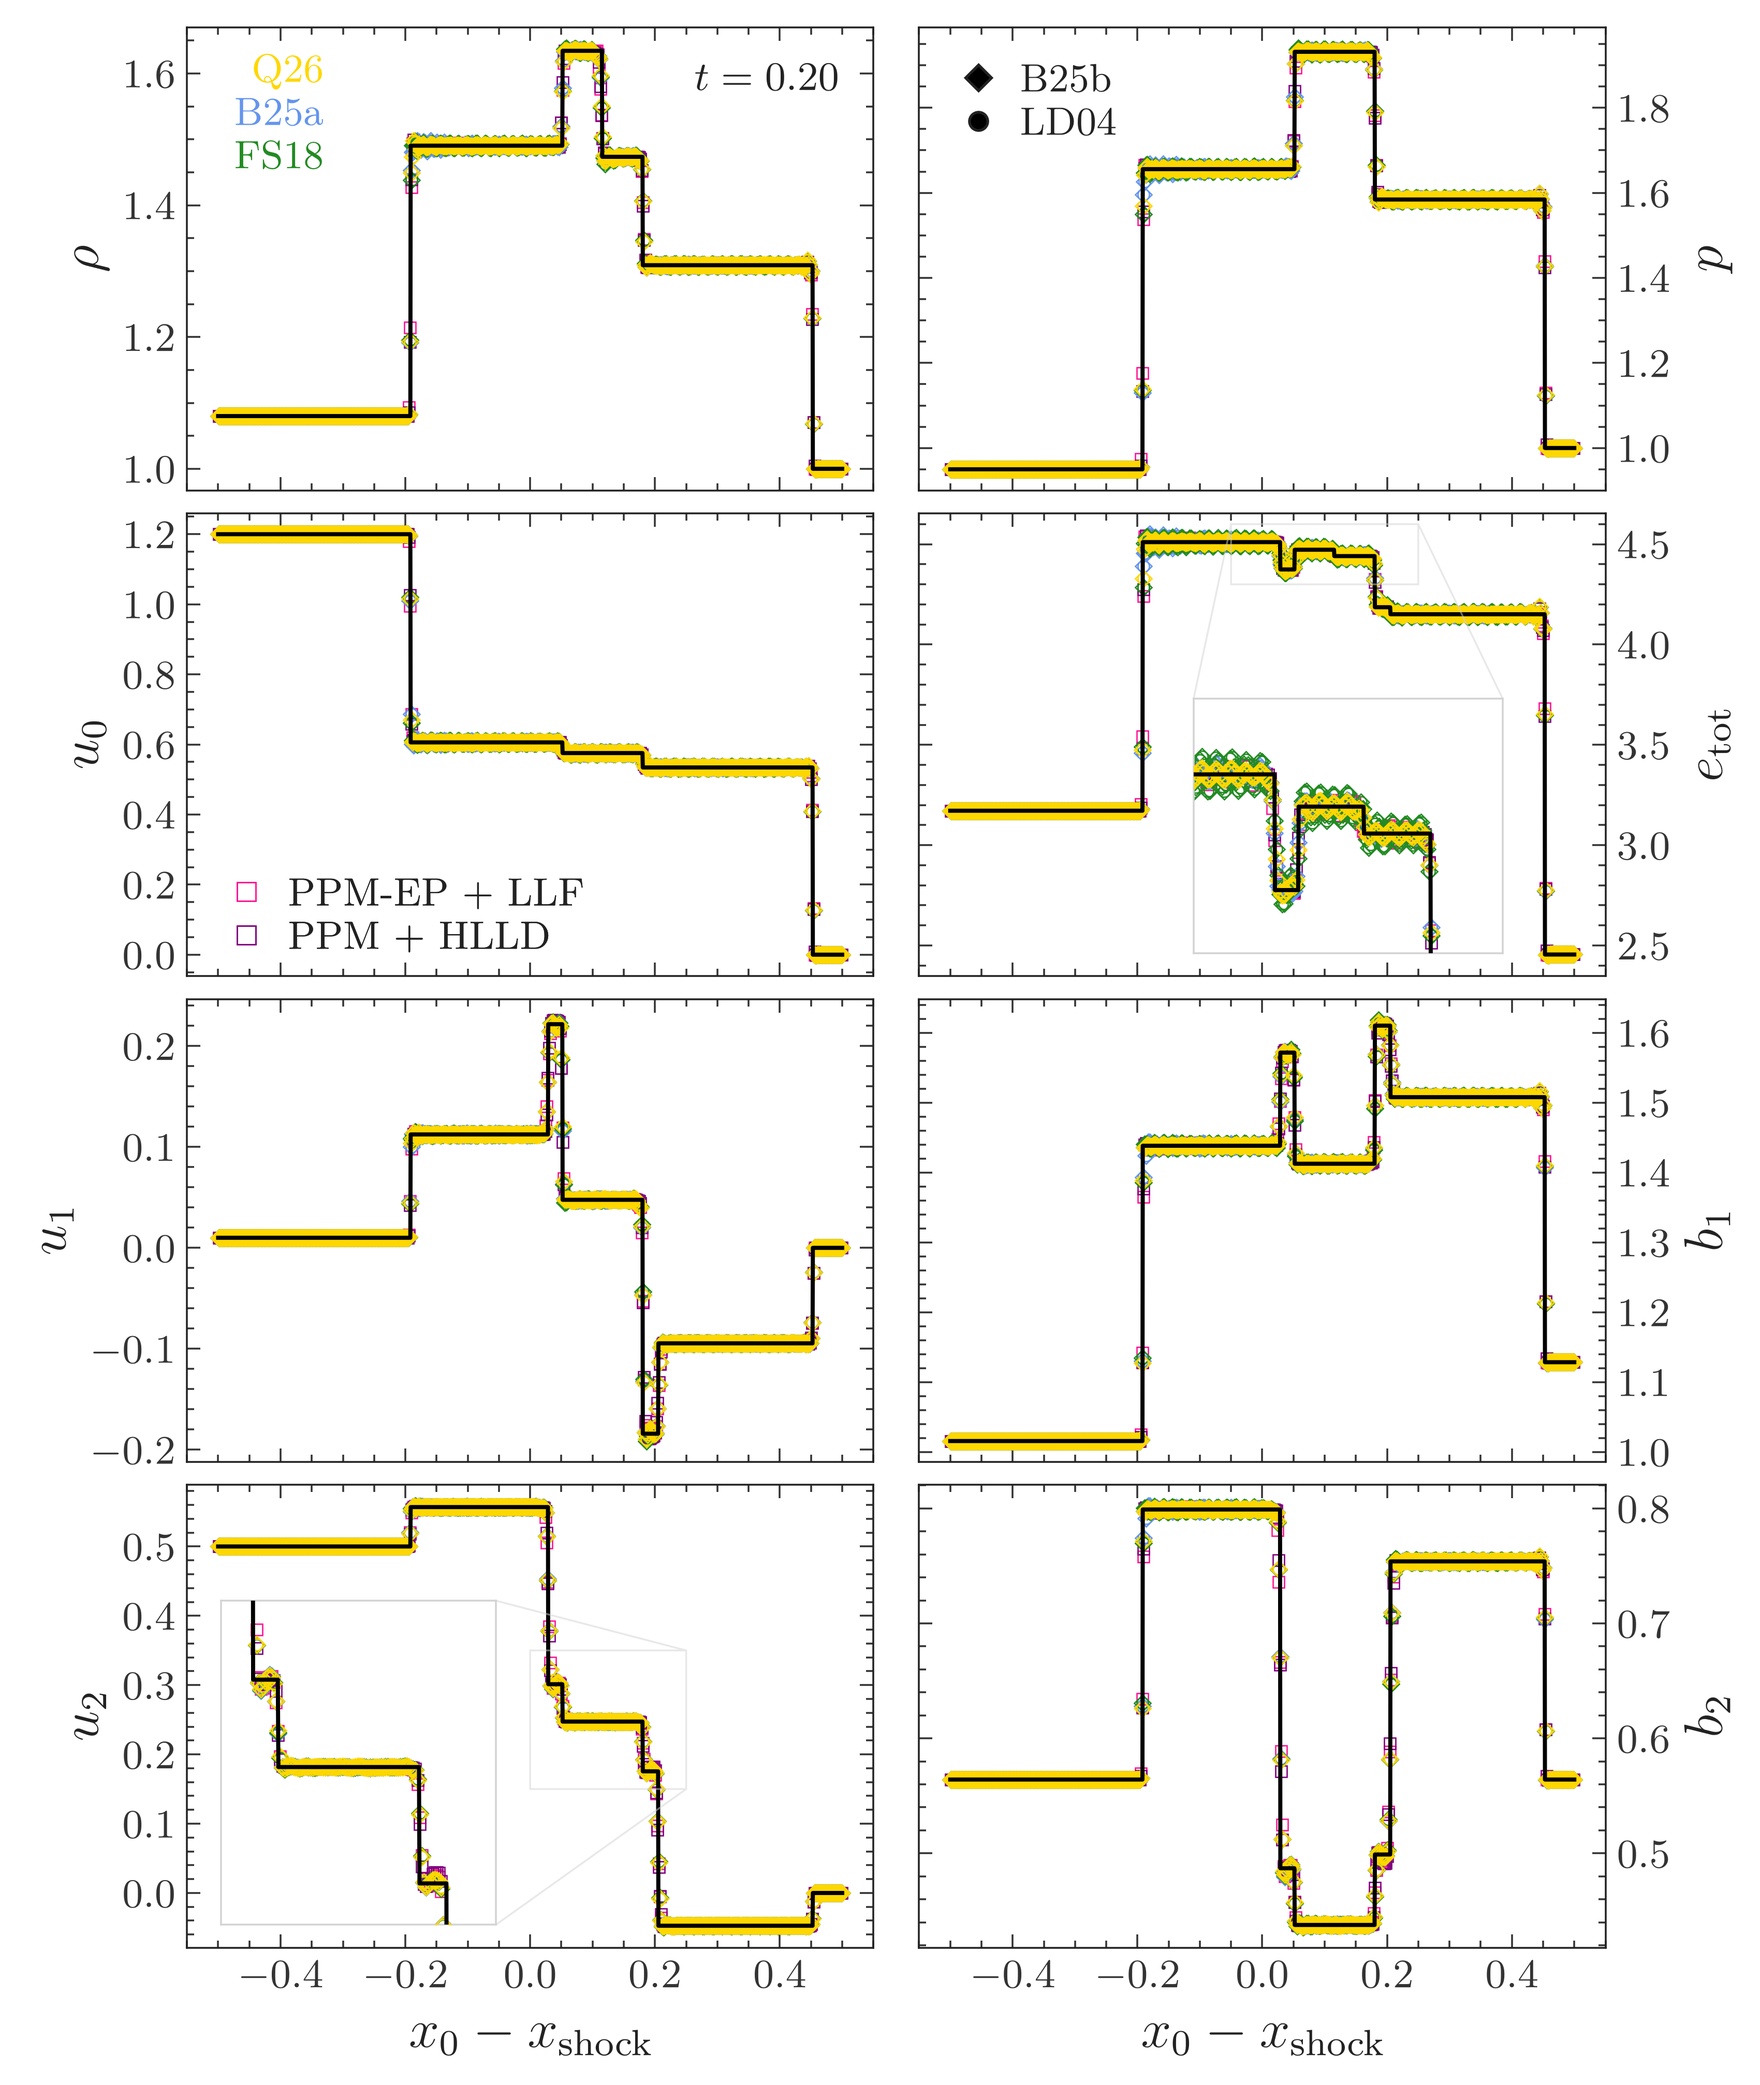
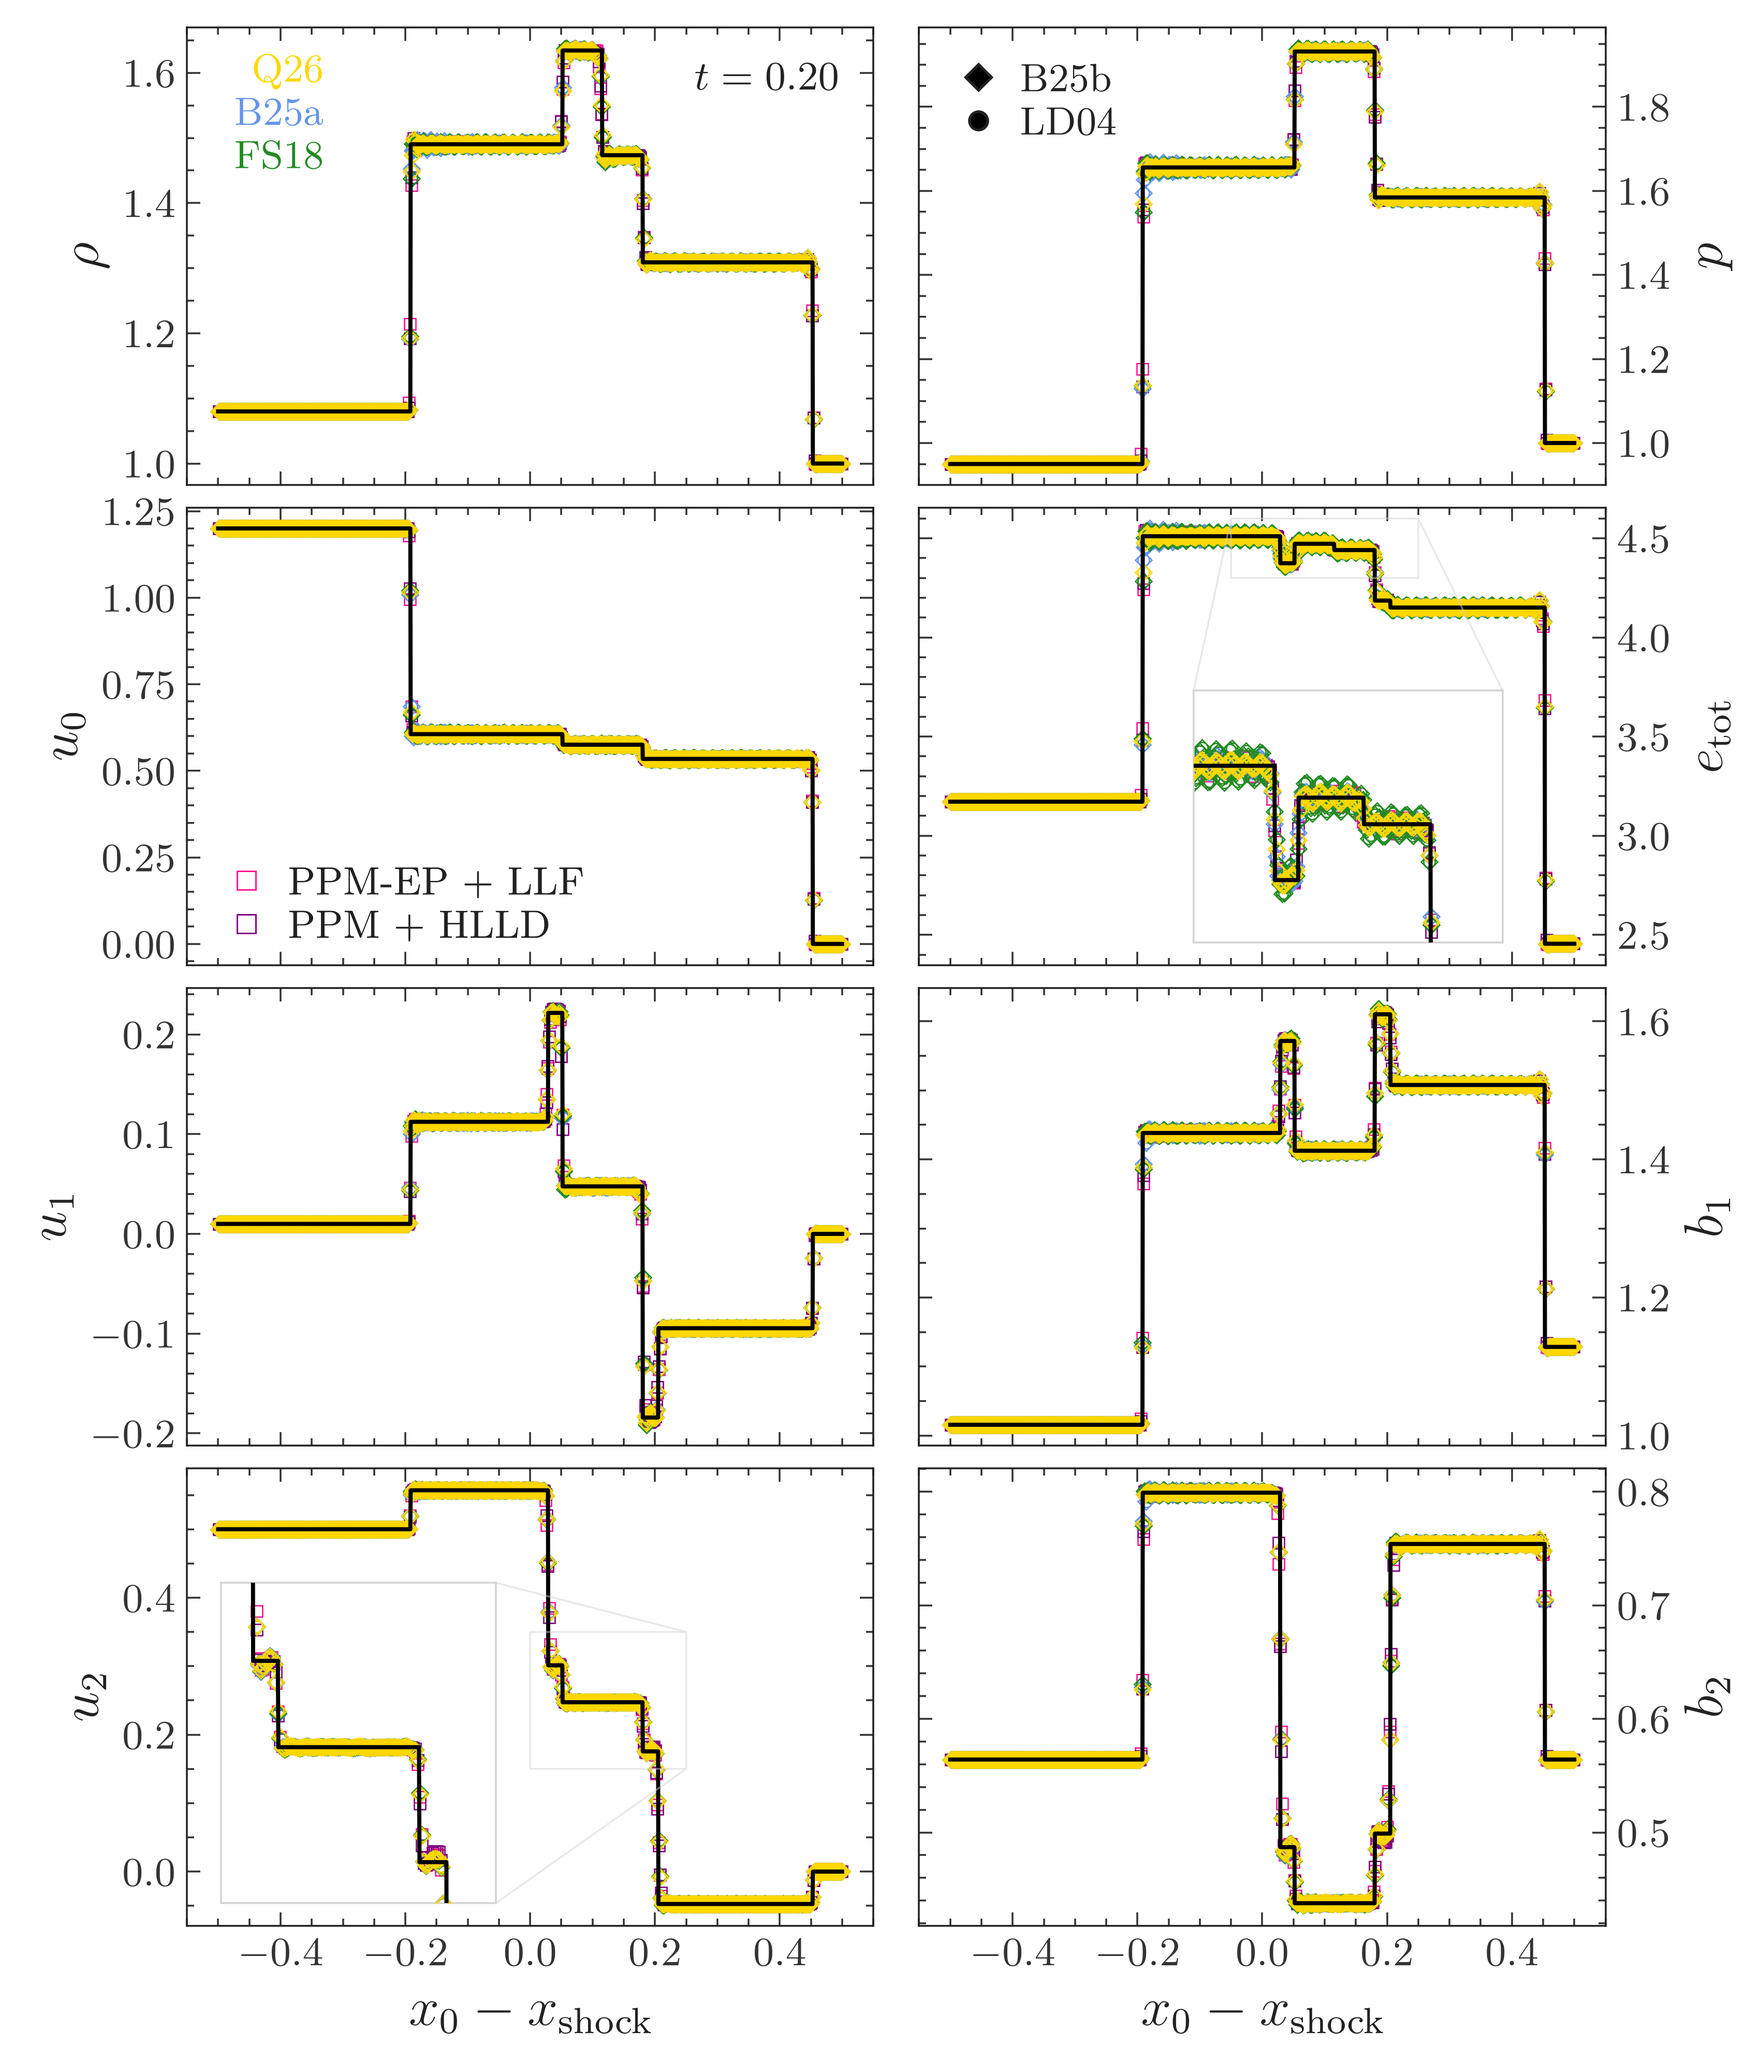
update-file(ryu-jones-2a): fraction aspect ratio; rename ncells to num_cells dataset path.

diff --git a/scripts/problems/ryu-jones-2a-shock-tube/plot_scheme_comparison.py b/scripts/problems/ryu-jones-2a-shock-tube/plot_scheme_comparison.py
@@ -137,7 +137,7 @@ class QuokkaSetupParams:
 
 ## inputs and outputs
 ROOT_DIR: Path = Path(__file__).parents[3]
-DATASET_DIR: Path = ROOT_DIR / "datasets/problems/ryu-jones-2a-shock-tube/ncells=512"
+DATASET_DIR: Path = ROOT_DIR / "datasets/problems/ryu-jones-2a-shock-tube/num_cells=512"
 FIGURE_PATH: Path = ROOT_DIR / "figures/problems/ryu-jones-2a-shock-tube/ncells=512/scheme-comparison.png"
 SETUP_PARAMS: QuokkaSetupParams = QuokkaSetupParams(
     discontinuity_position=0.5,
@@ -569,7 +569,8 @@ def main() -> None:
     figure, panel_grid = manage_figure.create_figure(
         num_panel_cols=2,
         num_panel_rows=4,
-        panel_aspect_ratio=1.482,
+        ## chosen by eye
+        panel_aspect_ratio=3.0 / 2.0,
         ## the rows share an x axis, so only their frames sit in the gap, not tick labels
         panel_row_gap_pt=5.0,
         ## drawn at the width the paper prints it at, so its text is the size it asks for
